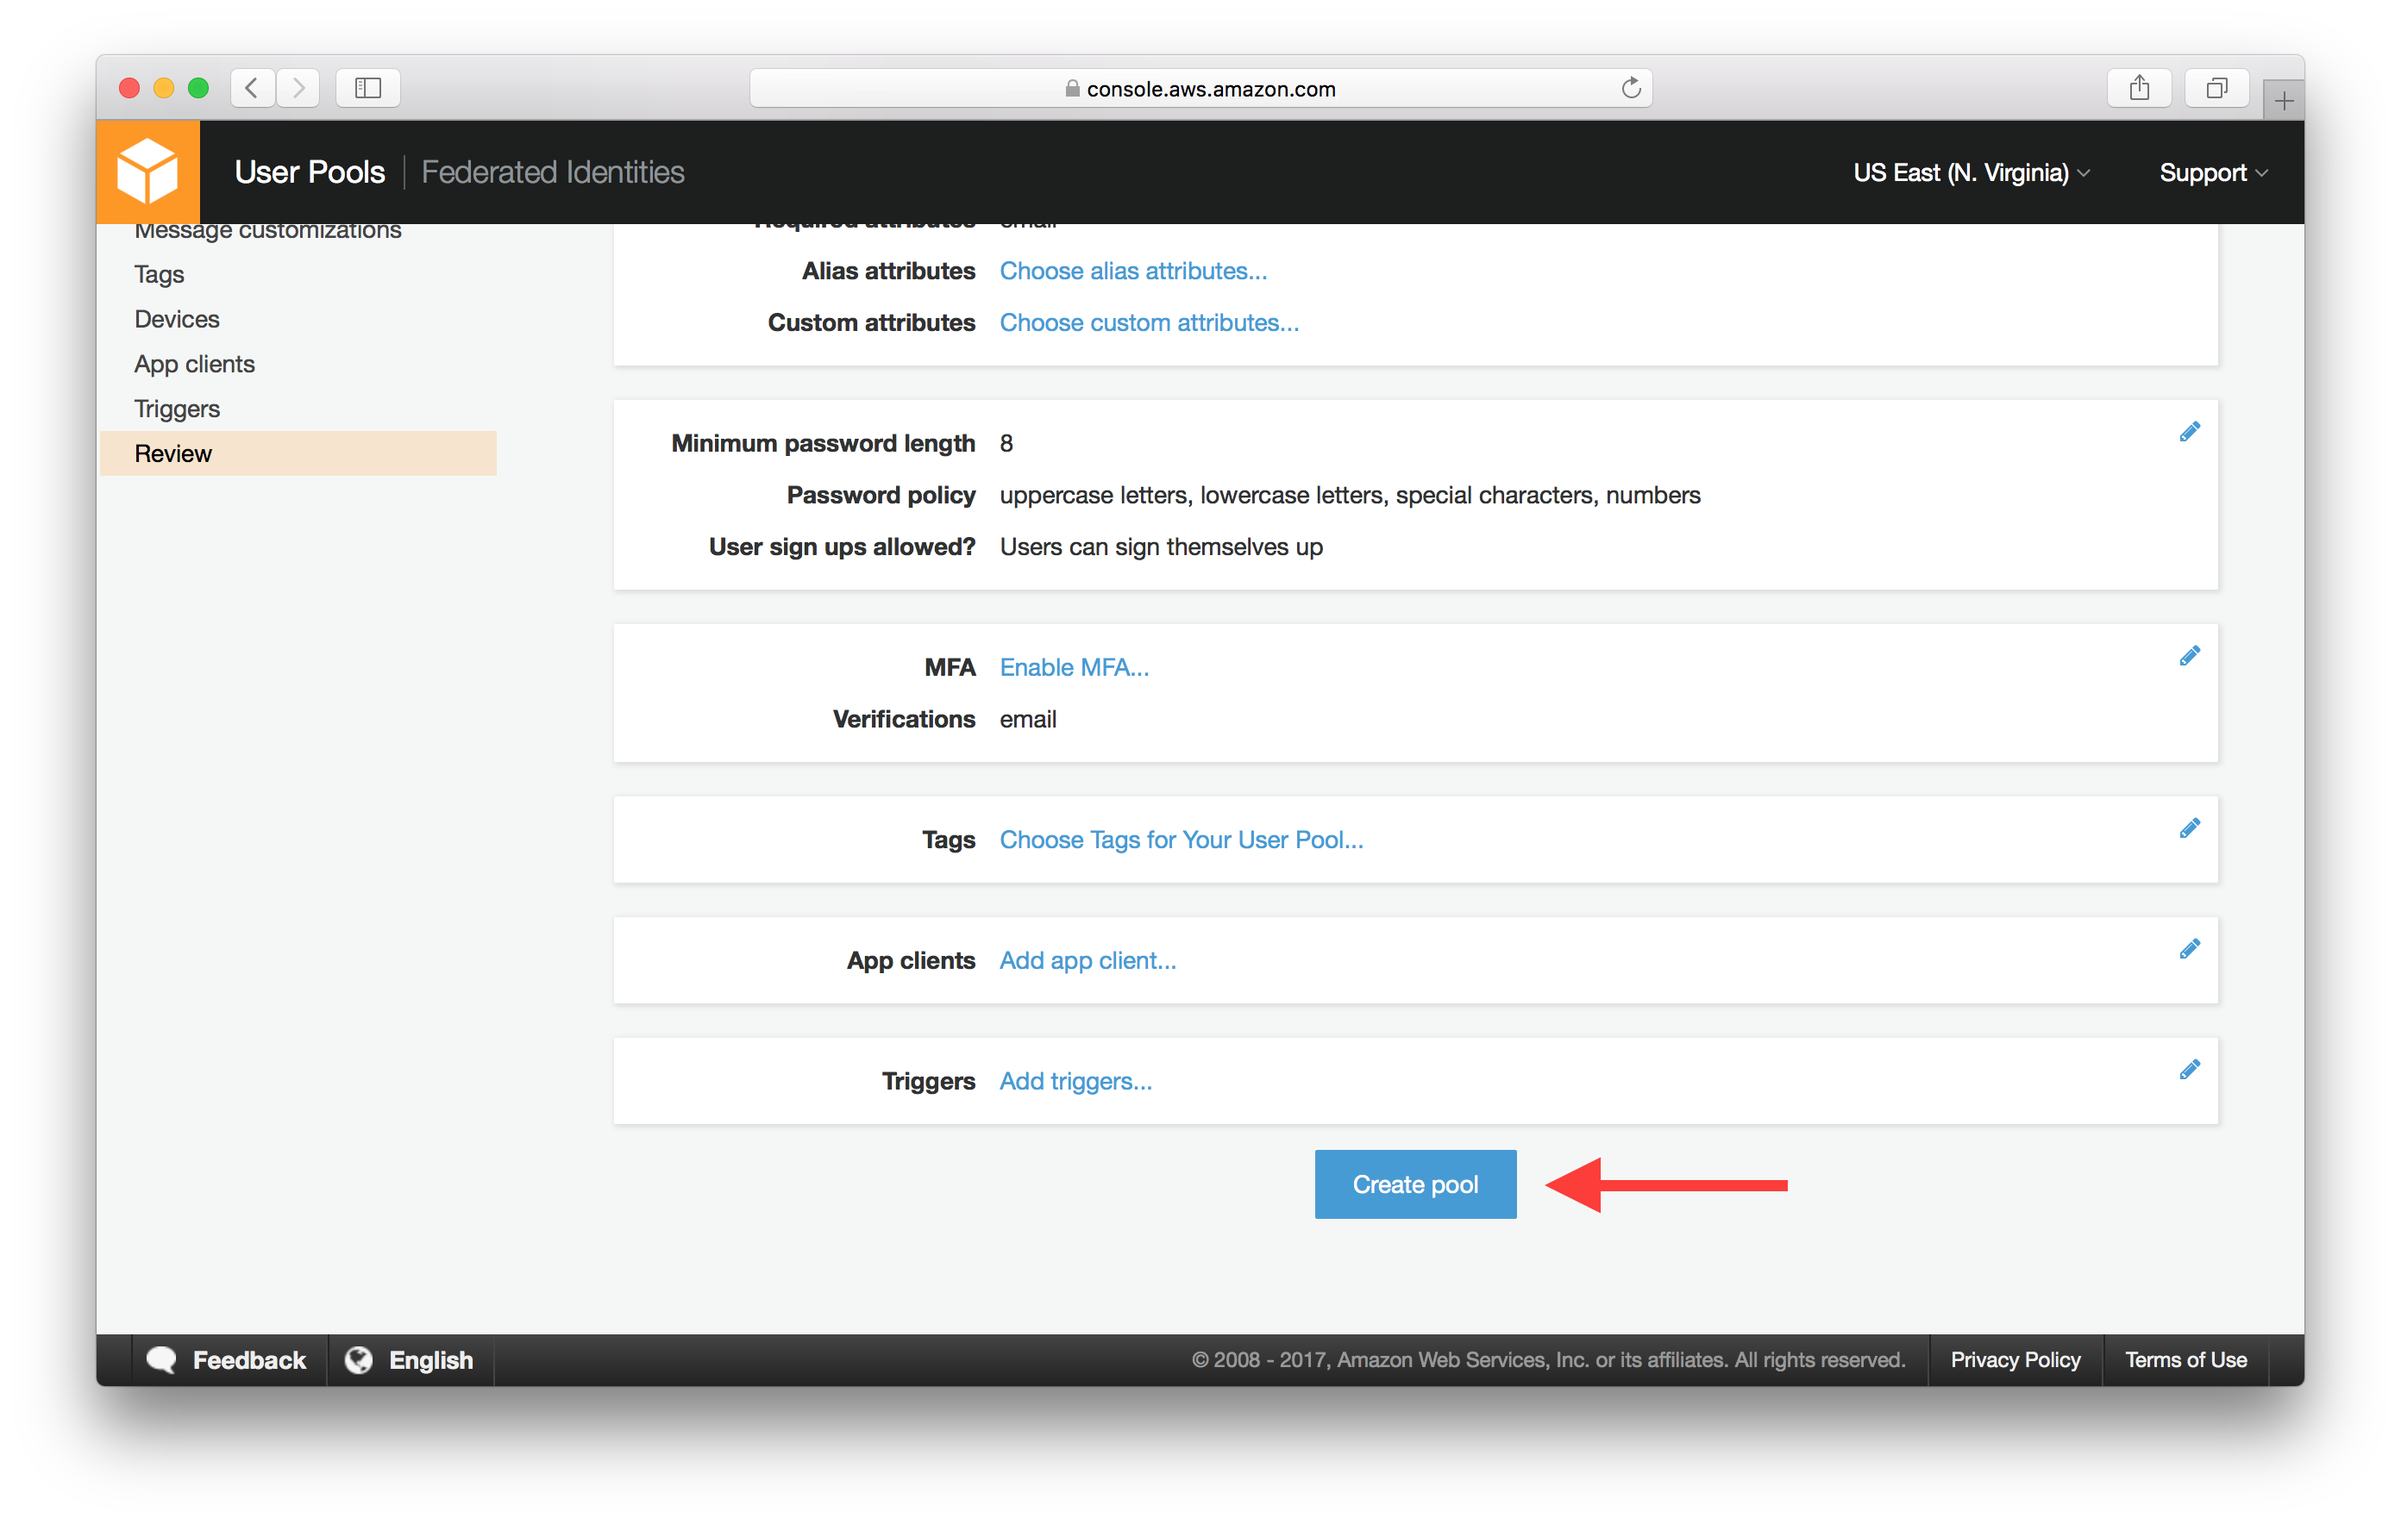
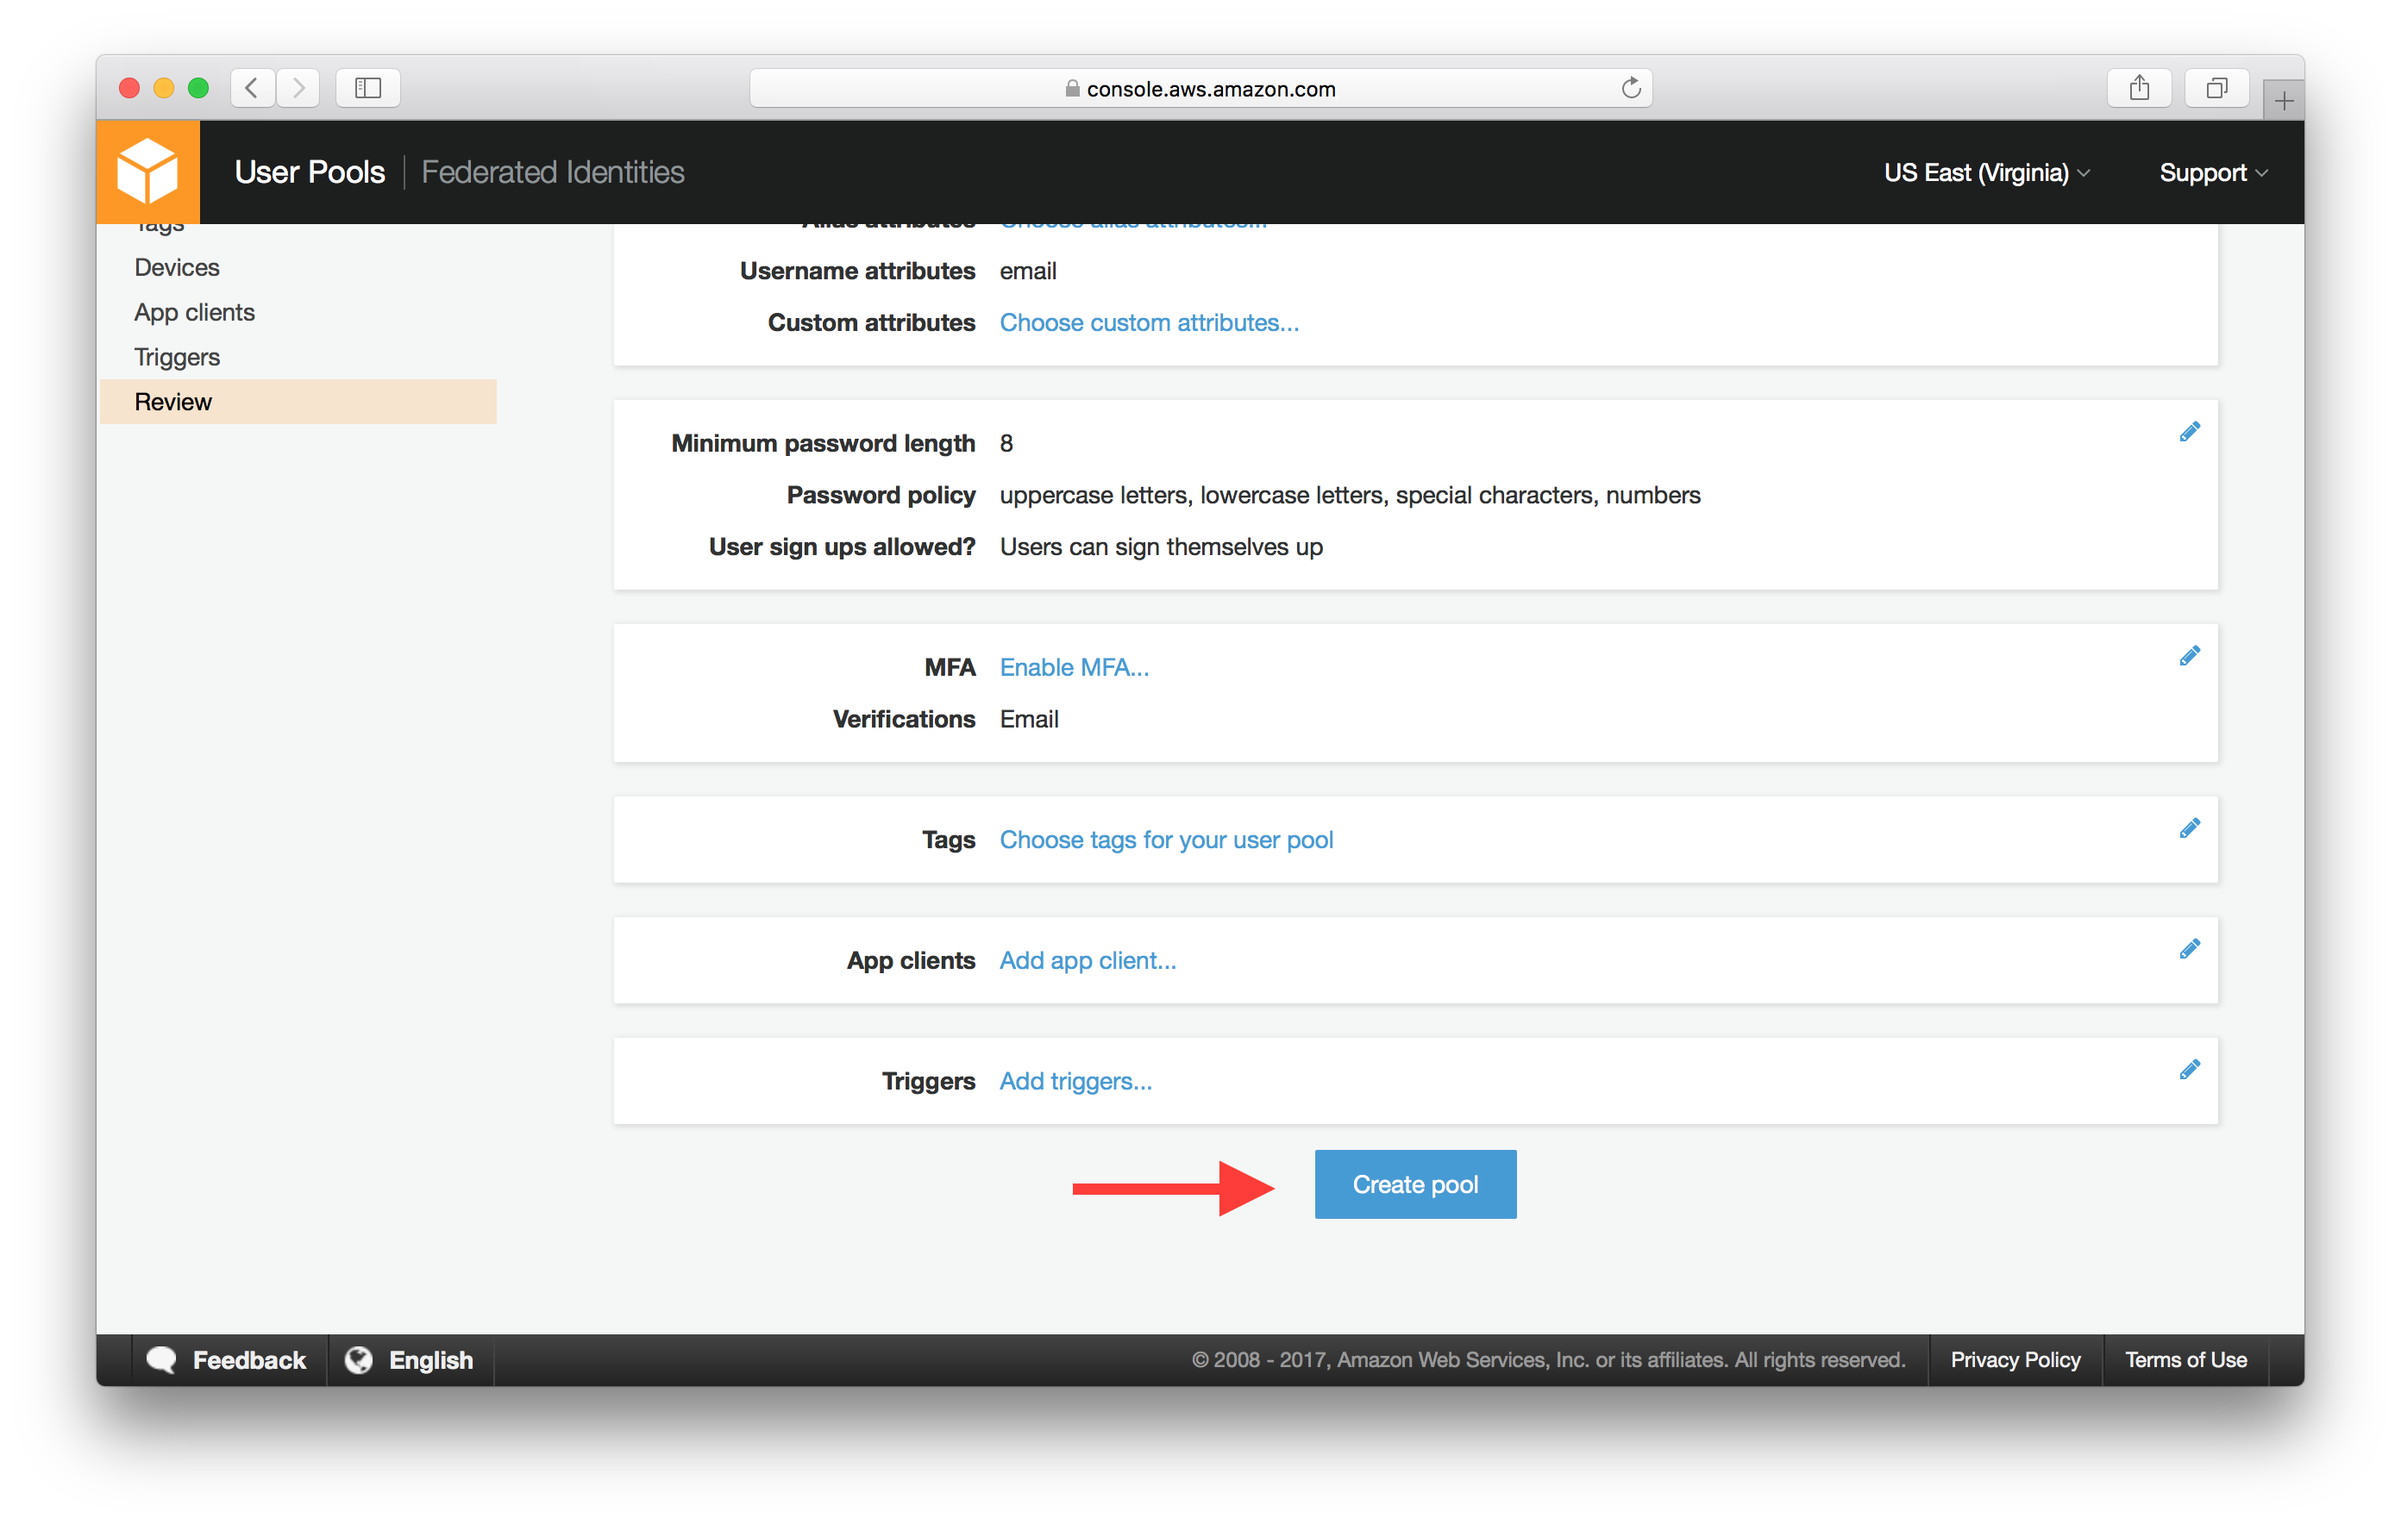
Using email as username in User Pool

diff --git a/_chapters/create-a-cognito-user-pool.md b/_chapters/create-a-cognito-user-pool.md
@@ -31,7 +31,23 @@ Enter **Pool name** and select **Review defaults**.
 
 ![Fill in Cognito User Pool info screenshot]({{ site.url }}/assets/cognito-user-pool/fill-in-user-pool-info.png)
 
-Select **Create pool** at the bottom of the page.
+Select **Choose username attributes...**.
+
+![Choose username attribute screenshot]({{ site.url }}/assets/cognito-user-pool/choose-username-attributes.png)
+
+And select **Email address or phone numbers** and **Allow email addresses**. This is telling Cognito User Pool that we want our users to be able to sign up and login with their email as their username.
+
+![Select email address as username screenshot]({{ site.url }}/assets/cognito-user-pool/select-email-address-as-username.png)
+
+Scroll down and select **Next step**.
+
+![Select attributes next step screenshot]({{ site.url }}/assets/cognito-user-pool/select-next-step-attributes.png)
+
+Hit **Review** in the side panel and make sure that the **Username attributes** is set to **email**.
+
+![Review User Pool settings screenshot]({{ site.url }}/assets/cognito-user-pool/review-user-pool-settings.png)
+
+Now hit **Create pool** at the bottom of the page.
 
 ![Select Create pool screenshot]({{ site.url }}/assets/cognito-user-pool/select-create-pool.png)
 

diff --git a/_chapters/create-a-cognito-test-user.md b/_chapters/create-a-cognito-test-user.md
@@ -11,7 +11,7 @@ In this chapter, we are going to create a test user for our Cognito User Pool. W
 
 ### Create User
 
-First, we will use AWS CLI to sign up a user with username, password and email. To keep things simple we are going to have people use their email as their username (as opposed to creating a username) while creating their account.
+First, we will use AWS CLI to sign up a user with their email and password.
 
 <img class="code-marker" src="{{ site.url }}/assets/s.png" />In your terminal, run.
 
@@ -21,7 +21,6 @@ $ aws cognito-idp sign-up \
   --client-id YOUR_COGNITO_APP_CLIENT_ID \
   --username admin@example.com \
   --password Passw0rd! \
-  --user-attributes Name=email,Value=admin@example.com
 ```
 
 Now, the user is created in Cognito User Pool. However, before the user can authenticate with the User Pool, the account needs to be verified. Let's quickly verify the user using an administrator command.
@@ -35,4 +34,4 @@ $ aws cognito-idp admin-confirm-sign-up \
   --username admin@example.com
 ```
 
-Now our test user is ready.  Next, let's set up the Serverless Framework to create our backend APIs.
+Now our test user is ready. Next, let's set up the Serverless Framework to create our backend APIs.
